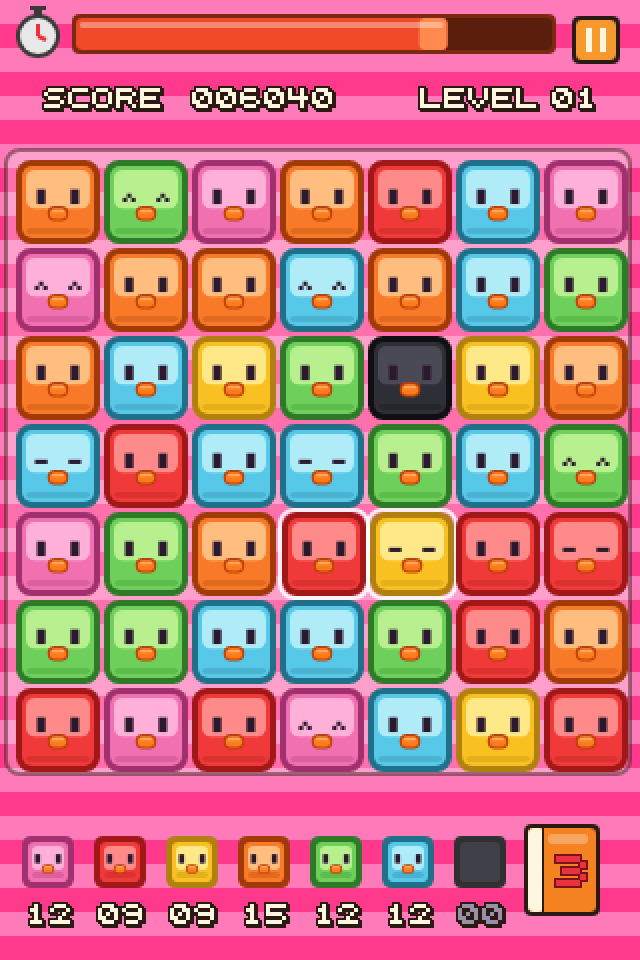
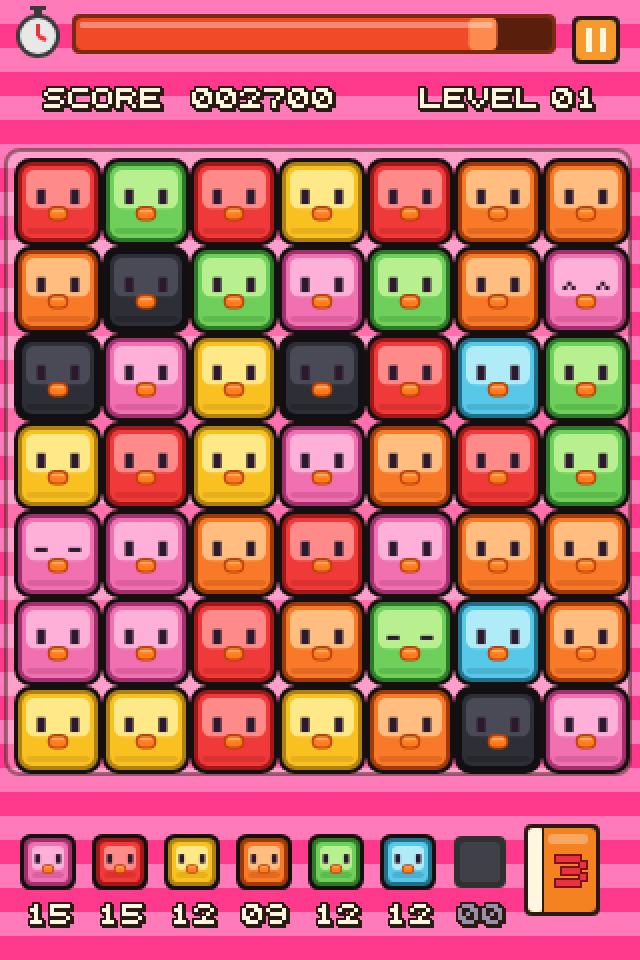
Piyo Blocks 3 - Nus Version: PB2-style title, black block outlines, night sky gradient

diff --git a/index.html b/index.html
@@ -2,12 +2,12 @@
 <html>
 <head>
 <meta charset="utf-8">
-<title>Piyo Blocks</title>
+<title>Piyo Blocks 3</title>
 <meta name="viewport" content="width=device-width,initial-scale=1,maximum-scale=1,user-scalable=no,viewport-fit=cover">
 <meta name="apple-mobile-web-app-capable" content="yes">
 <meta name="mobile-web-app-capable" content="yes">
 <meta name="apple-mobile-web-app-status-bar-style" content="black-translucent">
-<meta name="apple-mobile-web-app-title" content="Piyo Blocks">
+<meta name="apple-mobile-web-app-title" content="Piyo Blocks 3">
 <meta name="theme-color" content="#ff4f9c">
 <link rel="manifest" href="manifest.json">
 <link rel="apple-touch-icon" href="icon-180.png">
@@ -137,7 +137,8 @@ function drawBlock(cx,cy,s,t,o){
     ctx.lineWidth=1; ctx.strokeStyle=T.l; rr(-h+5,-h+5,s-10,s-10,3); ctx.globalAlpha=.5; ctx.stroke(); ctx.globalAlpha=1;
     birdFace(s,expr,true,T.c);
   } else {
-    frr(-h,-h,s,s,s*0.18,T.d);            // dark outline
+    frr(-h-1,-h-1,s+2,s+2,s*0.2,'#15100f'); // black outline
+    frr(-h+1,-h+1,s-2,s-2,s*0.16,T.d);        // colour rim
     frr(-h+3,-h+3,s-6,s-6,s*0.12,T.c);    // body
     frr(-h+5,-h+5,s-10,s*0.46,s*0.1,T.l); // lighter face band (top half)
     ctx.globalAlpha=.25; frr(-h+5,h-8,s-10,3,2,T.d); ctx.globalAlpha=1; // soft belly shade
@@ -303,7 +304,7 @@ function drawBtn(b,pressed){
   frr(b.x+3,b.y+3,b.w-6,b.h-6,6,c);
   ctx.globalAlpha=.3; frr(b.x+6,b.y+6,b.w-12,5,2,'#fff'); ctx.globalAlpha=1;
   const sc=b.sc||(b.h>=34?2:1);
-  drawTextO(b.label,b.x+b.w/2,b.y+(b.h-5*sc)/2,sc,'#fff6e0','#7a2e0a','center',1);
+  drawTextO(b.label,b.x+b.w/2,b.y+(b.h-5*sc)/2,sc,'#fff3d6','#5a2a10','center',1);
 }
 function hitBtn(x,y){if(performance.now()<uiLockUntil) return null; for(const b of buttons) if(x>=b.x&&x<=b.x+b.w&&y>=b.y&&y<=b.y+b.h) return b; return null;}
 
@@ -328,7 +329,7 @@ let fx=[], banner=null, bg=null, sel=null, drag=null, gameT=0, hiNew=false, tota
 let overlayBtnLock=0;
 
 function numColours(){ if(!mode) return 6; if(mode.id==='piyo'||mode.id==='endless'||mode.id==='three') return level<3?6:7; return 6; }
-function rndType(){ return Math.random()<0.035?NINJA:Math.floor(Math.random()*numColours()); }
+function rndType(){ return Math.random()<0.02?NINJA:Math.floor(Math.random()*numColours()); }
 function isDisco(){return mode&&mode.id==='disco';}
 
 function newBoard(){
@@ -373,7 +374,7 @@ function levelComplete(){
 let vel=[];
 function inSwap(r,c){return !!(swp&&((swp.a[0]===r&&swp.a[1]===c)||(swp.b[0]===r&&swp.b[1]===c)));}
 function settled(r,c){ return grid[r][c]>=0 && off[r][c]===0 && popP[r][c]<0 && !inSwap(r,c); }
-function boardCalm(){ if(swp) return false; for(let r=0;r<ROWS;r++)for(let c=0;c<COLS;c++) if(grid[r][c]<0||off[r][c]>0||popP[r][c]>=0) return false; return true; }
+function boardCalm(){ if(!grid.length) return true; if(swp) return false; for(let r=0;r<ROWS;r++)for(let c=0;c<COLS;c++) if(grid[r][c]<0||off[r][c]>0||popP[r][c]>=0) return false; return true; }
 function findMatches(){
   const cells=new Set(), runs=[];
   for(let r=0;r<ROWS;r++){let c=0; while(c<COLS){ if(!settled(r,c)){c++;continue;} const t=grid[r][c]; let e=c; while(e+1<COLS&&settled(r,e+1)&&grid[r][e+1]===t) e++; const len=e-c+1;
@@ -534,28 +535,54 @@ function render(){
   else if(app==='options') renderOptions();
   else renderGame();
 }
-function drawLogo(y){
-  const backs=[[44,0],[100,2],[160,5],[220,3],[276,1]];
-  for(let i=0;i<backs.length;i++){ const bob=Math.abs(Math.sin(appT*3+i*1.1))*-3; drawBlock(backs[i][0],y-10+bob,40,backs[i][1],{expr:i===2?2:0}); }
-  chunkyText('PIYO BLOCKS',160,y+12,5,26,'center',5);
+function blob(x,y,w,h,col,shade){ // tall rounded bush lobe with darker lower half
+  rr(x,y,w,h,Math.min(w,h)/2); ctx.fillStyle=col; ctx.fill();
+  ctx.save(); ctx.clip(); ctx.fillStyle=shade; ctx.fillRect(x,y+h*0.55,w,h); ctx.restore();
 }
+function drawTitleScene(t){
+  // sky with pink haze at the horizon (PB1 title)
+  const g=ctx.createLinearGradient(0,0,0,H); g.addColorStop(0,'#16307c'); g.addColorStop(0.16,'#2a5fc0'); g.addColorStop(0.32,'#4aa0ea'); g.addColorStop(0.46,'#8fcff6'); g.addColorStop(0.56,'#f0c8dc'); g.addColorStop(0.62,'#f7dbe8'); ctx.fillStyle=g; ctx.fillRect(0,0,W,H);
+  // clouds
+  for(const [x,y,w] of [[236,26,96],[214,102,60],[-6,196,44],[100,232,50]]){ cloudPath(x,y,w); ctx.fillStyle='#fff'; ctx.fill(); }
+  // far pale hill band
+  ctx.fillStyle='#9fdc6c'; ctx.beginPath(); ctx.moveTo(0,H); ctx.lineTo(0,300); ctx.quadraticCurveTo(160,262,320,296); ctx.lineTo(W,H); ctx.fill();
+  // tall pale bushes, left and right clusters
+  for(const [x,y,w,h] of [[-20,236,52,150],[22,252,44,130],[206,240,48,140],[244,226,52,156],[286,246,50,140]]) blob(x,y,w,h,'#b4e88a','#8fd45e');
+  // mid hill
+  ctx.fillStyle='#7ccf4e'; ctx.beginPath(); ctx.ellipse(160,392,240,60,0,0,Math.PI*2); ctx.fill();
+  // three rows of scalloped leaves
+  const rows=[[398,'#63c93c','#2f8a2a',-6],[436,'#58c437','#2a7f25',12],[472,'#4cb830','#25742a',-6]];
+  for(const [by,col,out,x0] of rows){
+    for(let i=0;i<10;i++){ const x=x0+i*38; ctx.beginPath(); ctx.arc(x,by,22,0,Math.PI*2); ctx.fillStyle=out; ctx.fill(); }
+    for(let i=0;i<10;i++){ const x=x0+i*38; ctx.beginPath(); ctx.arc(x,by,19,0,Math.PI*2); ctx.fillStyle=col; ctx.fill(); ctx.beginPath(); ctx.arc(x-6,by-7,7,0,Math.PI*2); ctx.fillStyle='#8ee06a'; ctx.fill(); }
+  }
+}
+function drawLogo(y){ // PB2 lockup: small blocks on top, PIYOBLOCKS letters, big orange 2
+  const backs=[[30,0],[78,3],[124,5],[170,3],[214,1]];
+  for(let i=0;i<backs.length;i++){ const bob=Math.abs(Math.sin(appT*3+i*1.1))*-3; drawBlock(backs[i][0],y-14+bob,36,backs[i][1],{expr:i===2?2:0}); }
+  chunkyText('PIYOBLOCKS',134,y+12,5,25,'center',2);
+  chunkyText('3',286,y+2,9,54,'center',0);
+  chunkyText('NUS VERSION',160,y+52,2,13,'center',0);
+}
+function squareBtn(b){ // big orange square block button with a giant glyph and a label beneath
+  frr(b.x,b.y+4,b.w,b.h,8,'#7a2e0a'); frr(b.x,b.y,b.w,b.h,8,'#b0400c'); frr(b.x+4,b.y+4,b.w-8,b.h-8,6,b.dim?'#c86a3a':'#f26a1c');
+  ctx.globalAlpha=.35; frr(b.x+7,b.y+7,b.w-14,10,4,'#fff'); ctx.globalAlpha=1;
+  if(b.icon==='gear'){ const cx=b.x+b.w/2, cy=b.y+b.h/2; ctx.save(); ctx.translate(cx,cy); ctx.rotate(appT*0.6); ctx.fillStyle='#5a2a10'; for(let k=0;k<8;k++){ ctx.rotate(Math.PI/4); ctx.fillRect(-4,-21,8,10); } ctx.beginPath(); ctx.arc(0,0,15,0,Math.PI*2); ctx.fill(); ctx.fillStyle='#fff3d6'; ctx.beginPath(); ctx.arc(0,0,11,0,Math.PI*2); ctx.fill(); ctx.fillStyle='#5a2a10'; ctx.beginPath(); ctx.arc(0,0,5,0,Math.PI*2); ctx.fill(); ctx.restore(); }
+  else drawTextO(b.glyph,b.x+b.w/2,b.y+(b.h-5*b.gsc)/2+1,b.gsc,'#fff3d6','#5a2a10','center',2,'#5a2a10');
+  drawTextO(b.label,b.x+b.w/2,b.y+b.h+9,b.lsc||1,'#fff3d6','#5a2a10','center',1);
+}
+function drawHook(x,y,w,h){ frr(x,y,w,h,3,'#7a4a08'); frr(x+2,y+2,w-4,h-4,2,'#f7c236'); frr(x+3,y+3,w-6,3,1,'#ffe69a'); }
+let titleToast=0;
 function renderTitle(){
-  drawSkyBg(appT);
-  drawLogo(38);
-  // tall rounded bushes flanking the sign
-  for(const [bx,by,bw,bh] of [[-6,170,54,150],[272,160,56,160],[30,215,40,100],[250,225,44,100]]){ rr(bx,by,bw,bh,bw/2); ctx.fillStyle='#8fe07f'; ctx.fill(); ctx.strokeStyle='#2f9e32'; ctx.lineWidth=3; ctx.stroke(); rr(bx+6,by+8,bw*0.35,bh*0.4,bw*0.17); ctx.fillStyle='#c9f7ae'; ctx.fill(); }
-  drawSign(38,146,244,160);
-  // yellow bracket hooks
-  for(const hx of [26,278]){ frr(hx,196,16,60,4,'#7a2e0a'); frr(hx+3,199,10,54,3,'#ffd43a'); frr(hx+3,199,10,6,2,'#fff0a0'); }
-  frr(62,300,20,52,3,'#c85a12'); frr(65,303,14,46,2,'#f7941d'); frr(238,300,20,52,3,'#c85a12'); frr(241,303,14,46,2,'#f7941d');
-  for(const b of buttons) drawBtn(b);
-  // hi score plaque
-  frr(74,338,216,52,8,'#7A1A3A'); frr(77,341,210,46,6,'#F04A78'); ctx.globalAlpha=.25; frr(82,345,200,5,2,'#fff'); ctx.globalAlpha=1;
-  chunkyText('HI SCORE',182,346,3,17,'center',0);
-  const best=Math.max(0,...Object.values(SAVE.hi)); drawTextO(pad(best,6),182,368,2,'#FFFFFF','#7A1A3A','center',1);
-  drawBlock(6,246,34,0,{expr:1}); drawBlock(-8,284,34,2,{});
-  drawGirl(-22,352,0.9,Math.sin(appT*3)*3);
-  drawBlock(258,H-62,38,4,{expr:1}); drawBlock(300,H-70,38,5,{}); drawBlock(280,H-28,38,0,{});
+  drawTitleScene(appT);
+  drawLogo(44);
+  for(const b of buttons) squareBtn(b);
+  // pink HI SCORE banner
+  frr(78,296,164,62,8,'#a8285a'); frr(82,300,156,54,6,'#f06a9a'); ctx.globalAlpha=.3; frr(86,304,148,5,2,'#fff'); ctx.globalAlpha=1;
+  const best=Math.max(0,...Object.values(SAVE.hi)); frr(104,306,112,18,9,'#fff'); drawText(pad(best,6),160,310,2,'#e83e5c','center');
+  chunkyText('HI SCORE',160,330,3,17,'center',0);
+  // peeking blocks in the bushes
+  drawBlock(284,250,30,3,{expr:0}); drawBlock(14,268,26,5,{expr:1});
 }
 function renderModes(){
   drawSkyBg(appT,{ground:0.5});
@@ -589,7 +616,7 @@ function renderOptions(){
   drawTextO('OPTIONS',160,12,3,goldGrad(12,15),'#fff6e0','center',2,'#2b1a14');
   drawSign(10,42,300,390);
   for(const b of buttons) drawBtn(b);
-  drawText('PIYO BLOCKS FAN PROTOTYPE',160,H-40,1,'#fff6e0','center');
+  drawText('PIYO BLOCKS 3 - NUS VERSION',160,H-40,1,'#fff6e0','center');
   drawText('ORIGINAL BY BIG PIXEL STUDIOS',160,H-28,1,'#fff6e0','center');
 }
 function drawBook(x,y,n){ // orange book, cream page edge, red glyph
@@ -680,9 +707,10 @@ function renderGame(){
 
 // ---------- screens / navigation ----------
 function gotoTitle(){ app='title'; buttons=[]; uiLockUntil=performance.now()+250; playMusic('title');
-  addBtn(62,164,196,36,'PLAY',()=>gotoModes());
-  addBtn(62,208,196,36,'HELP',()=>{app='help'; buttons=[]; uiLockUntil=performance.now()+250; addBtn(100,400,120,28,'BACK',()=>gotoTitle());});
-  addBtn(62,252,196,36,'OPTIONS',()=>gotoOptions());
+  const sq=(x,y,label,glyph,gsc,cb,extra)=>{ addBtn(x,y,60,60,label,cb); Object.assign(buttons[buttons.length-1],{glyph,gsc},extra||{}); };
+  sq(130,122,'PLAY','1',8,()=>gotoModes());
+  sq(88,214,'HELP','?',8,()=>{app='help'; buttons=[]; uiLockUntil=performance.now()+250; addBtn(100,400,120,28,'BACK',()=>gotoTitle());});
+  sq(172,214,'OPTIONS','',8,()=>gotoOptions(),{icon:'gear'});
 }
 function gotoModes(){ app='modes'; buttons=[]; uiLockUntil=performance.now()+250; hovMode=-1;
   MODES.forEach((m,i)=>{ const col=i%2,row=Math.floor(i/2); addBtn(22+col*148,66+row*98,140,56,m.name,()=>startGame(m)); });

diff --git a/README.md b/README.md
@@ -1,4 +1,4 @@
-# Piyo Blocks (fan prototype)
+# Piyo Blocks 3 - Nus Version (fan prototype)
 
 A single-player, touch-first homage to Big Pixel Studios' *Piyo Blocks* (iOS, 2009), rebuilt as one HTML file.
 
